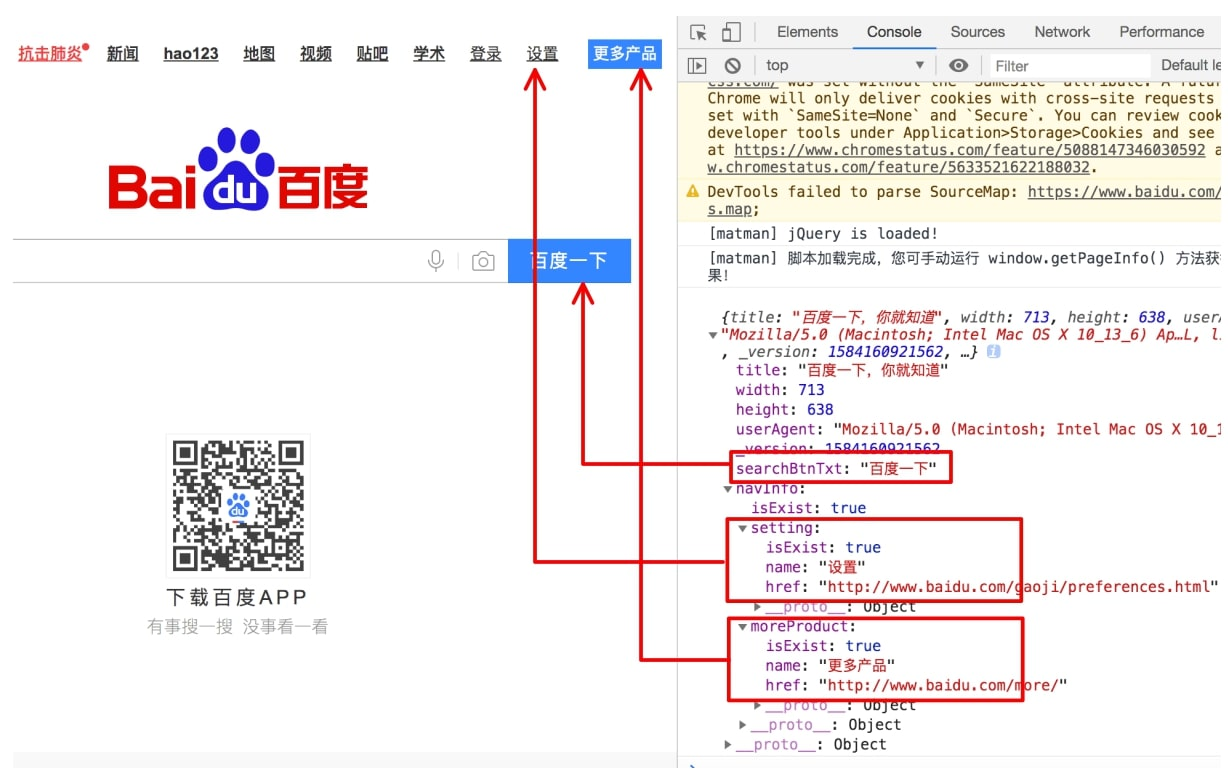
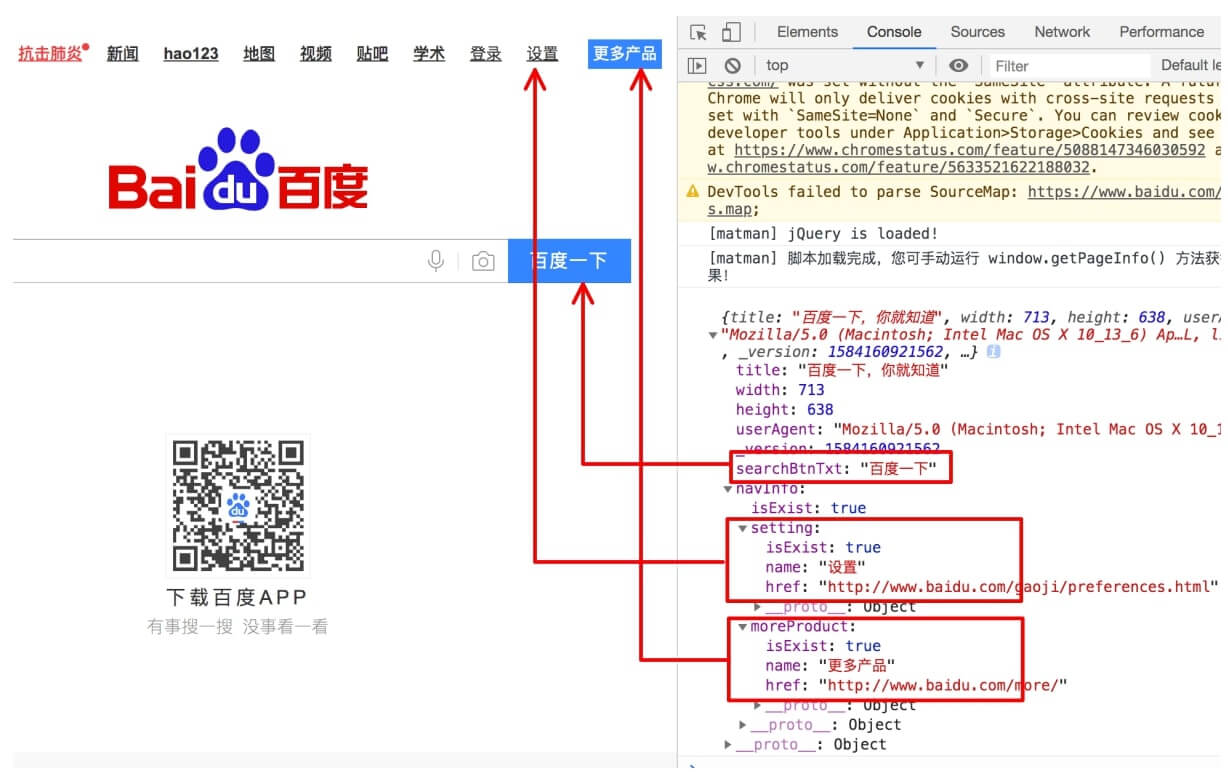
docs: 更新图片

diff --git a/docs/wiki/getting-started/baidu_01.md b/docs/wiki/getting-started/baidu_01.md
@@ -105,7 +105,7 @@ $ npm run build-dev
 
 上述命令会生成一个调试脚本 `build/crawler-script_dev/page_baidu_index/crawlers/get-page-info.js` ，拷贝所有的内容在浏览器 `console` 控制台，查看输出：
 
-![](./img/baidu_01_01.png)
+![](./img/baidu_01_01.jpg)
 
 
 ### 3.2 编写执行脚本
@@ -238,4 +238,4 @@ $ npm i mocha chai --save-dev
 $ npm test
 ```
 
-![](./img/baidu_01_02.png)
+![](./img/baidu_01_02.jpg)
